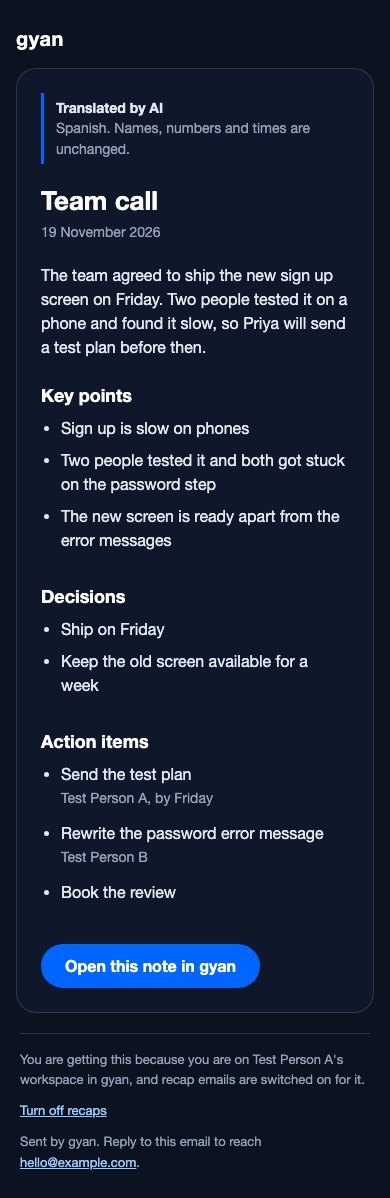
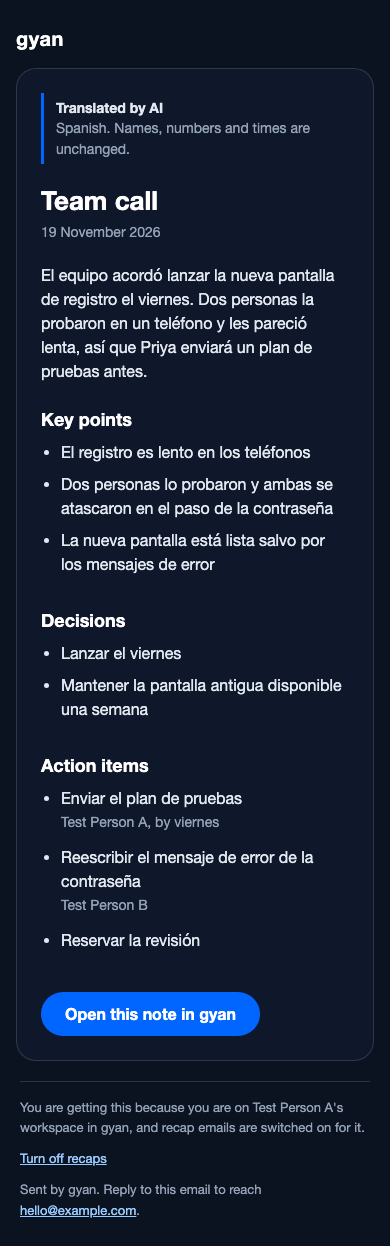
Make the translated recap picture really translated
The picture meant to show what a translated recap looks like was built
from English words with the "Translated by AI" label on top, so it showed
where the label sits but not what a reader would actually get. It now
renders Spanish words, with the date and the people's names untouched,
which is exactly what the label promises.

Also records an open question the picture makes obvious: the email's own
headings (Key points, Decisions, Action items, and the button) stay in
English even when the note is translated. That follows the rule already
set for right-to-left text, but it is more arguable in an email, where
there is no English interface around the words. Left for the founder.

705 unit tests, the type check and the browser scripts pass.

diff --git a/tests/08-recap-email.spec.ts b/tests/08-recap-email.spec.ts
@@ -34,9 +34,28 @@ const BODY: RecapBody = {
   ],
 };
 
+/** The same note, as a saved Spanish translation would hand it back. Made up words, not real. */
+const BODY_ES: RecapBody = {
+  title: 'Team call',
+  overview:
+    'El equipo acordó lanzar la nueva pantalla de registro el viernes. Dos personas la probaron en un teléfono y les pareció lenta, así que Priya enviará un plan de pruebas antes.',
+  keyPoints: [
+    'El registro es lento en los teléfonos',
+    'Dos personas lo probaron y ambas se atascaron en el paso de la contraseña',
+    'La nueva pantalla está lista salvo por los mensajes de error',
+  ],
+  decisions: ['Lanzar el viernes', 'Mantener la pantalla antigua disponible una semana'],
+  actionItems: [
+    // The names are NOT translated, exactly as the translating rules say.
+    { text: 'Enviar el plan de pruebas', owner: 'Test Person A', due: 'viernes' },
+    { text: 'Reescribir el mensaje de error de la contraseña', owner: 'Test Person B', due: null },
+    { text: 'Reservar la revisión', owner: null, due: null },
+  ],
+};
+
 function email(translated: boolean) {
   return renderRecap({
-    body: BODY,
+    body: translated ? BODY_ES : BODY,
     date: '2026-11-19T09:30:00Z',
     language: translated ? 'es' : 'en',
     translated,
@@ -86,6 +105,12 @@ test('a translated recap says "Translated by AI" right at the top', async ({ pag
 
   await expect(page.getByText('Translated by AI')).toBeVisible();
   await expect(page.getByText('Spanish. Names, numbers and times are unchanged.')).toBeVisible();
+  // The first match is the hidden one-line preview many email programs show; the visible one
+  // is the overview itself.
+  await expect(page.getByText(/El equipo acordó lanzar/).last()).toBeVisible();
+  // The date and the people's names are untouched, which is what the label promises.
+  await expect(page.getByText('19 November 2026')).toBeVisible();
+  await expect(page.getByText(/Test Person A/).first()).toBeVisible();
 
   await page.waitForTimeout(300);
   await page.screenshot({ path: `${IMAGES}/recap-email-translated-390.png`, fullPage: true });

diff --git a/docs/decisions.md b/docs/decisions.md
@@ -74,3 +74,4 @@
 - 2026-11-19: The server, not the screen, decides which row in the Send recap list is **you**: `previewRecap` adds `is_you` by comparing ids. The dialog had briefly used the signed-in email for this, which coupled it to the login context and broke the note screen's tests. Comparing ids on the server is both correct and one less thing the dialog has to know.
 - 2026-11-19: Adding a fourth pill (Send recap) to the note page made the pill row wider than a phone, and the whole page scrolled sideways. The group needed `flexShrink: 1`: without it a wrapping row keeps its content width and pushes the page over. Found by looking at the screenshot, not by a test.
 - 2026-11-19: `email_log` records every email Gyan **tried** to send, failures included, with the address, the language, whether it was translated, the provider's own message id, who pressed Send (empty for an automatic send) and why it failed. Anybody on the account can read it; only the server writes it. One person's email failing never stops the others.
+- 2026-11-19: In a translated recap the **words of the note are translated, but the email's own headings are not**: "Key points", "Decisions", "Action items" and the "Open this note in gyan" button stay in English. This follows the rule already set on 2026-11-18 for right-to-left text, that only the translated words change and the app's own chrome stays in English. It is more arguable in an email than in the app, because the whole email is for one person and there is no English interface around it. Translating them would mean a small list of about 4 phrases in each of the 16 languages, written once; it does not need an AI call. **Open for the founder to decide**, and visible in docs/help/images/recap-email-translated-390.png.
